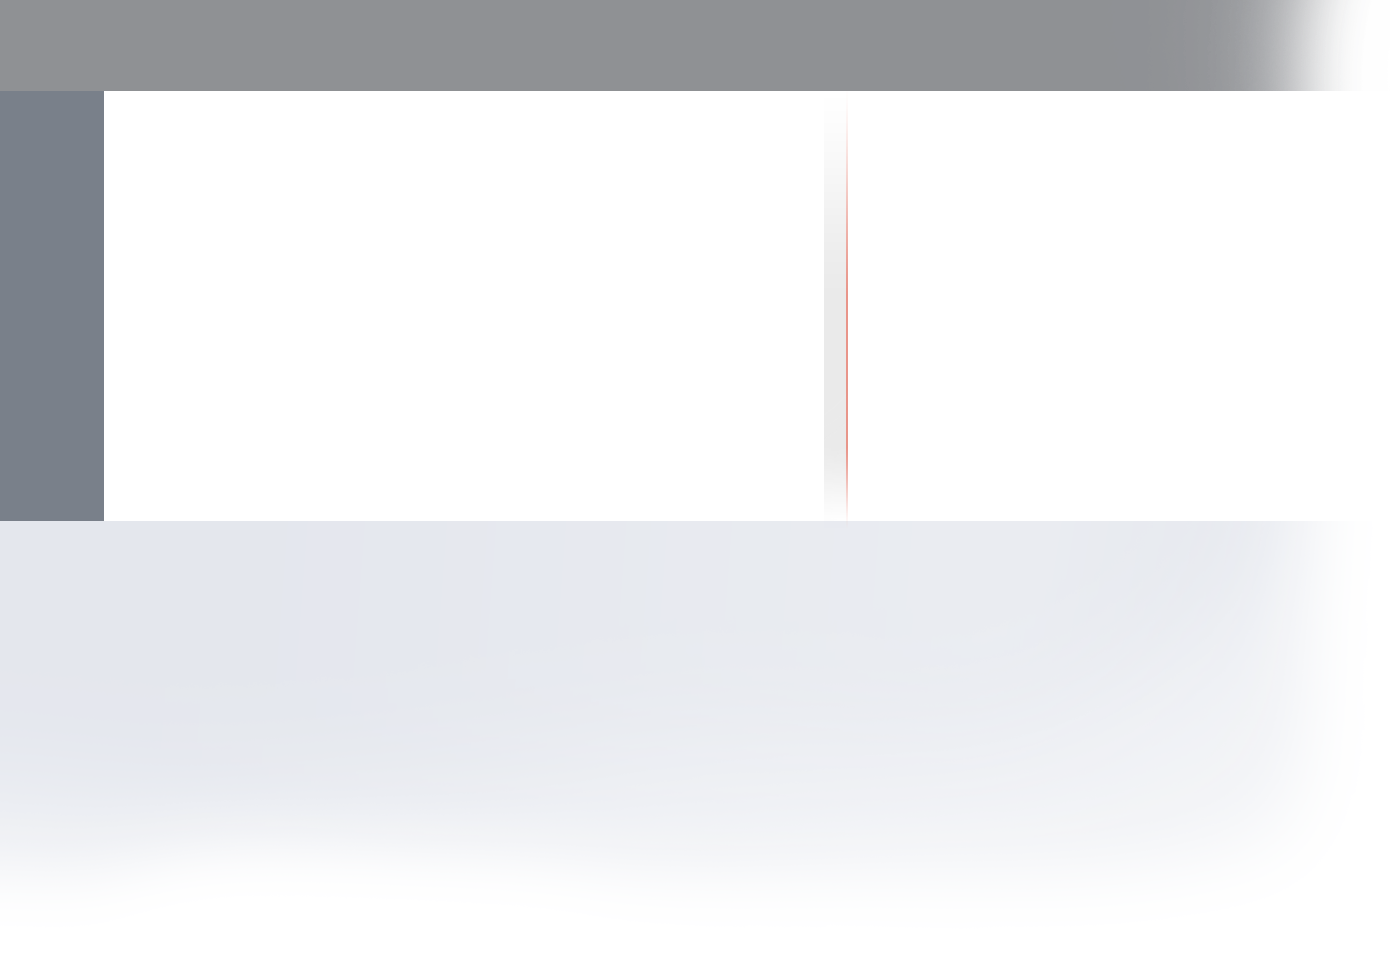
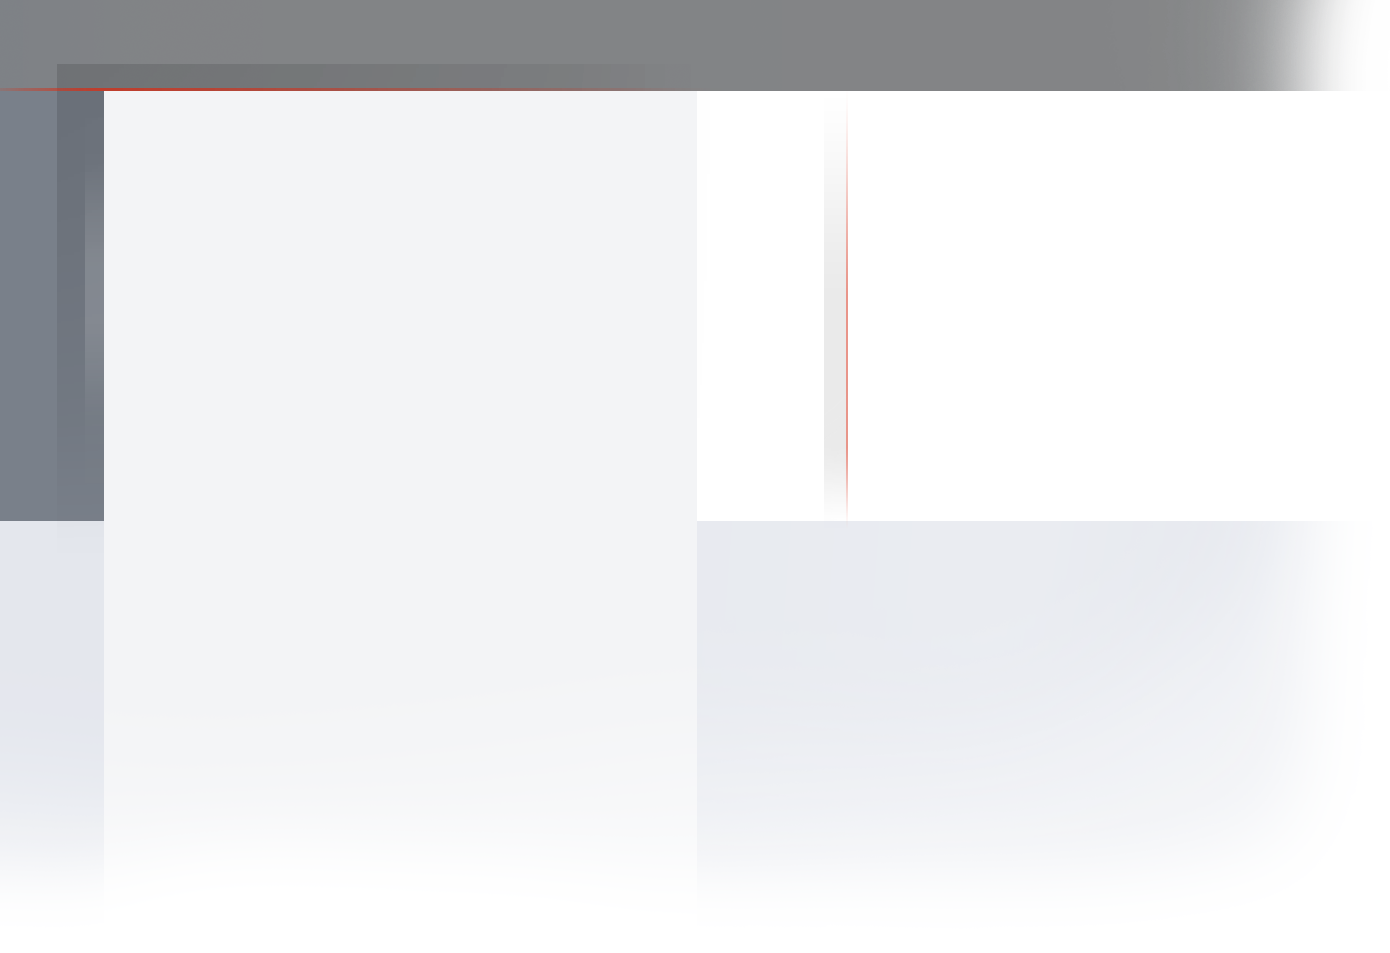
Changes

Changed region(s): [[0.0, 0.0609, 0.464, 0.1217]]

diff --git a/webroot/css/new_admin.css b/webroot/css/new_admin.css
@@ -1,3 +1,4 @@
+@import url("new_inc/theme_center/current_theme_settings.less");
 @font-face {
   font-family: 'Code-Pro-LC';
   src: url('/fonts/myfonts/code_pro/293724_0_0.eot');
@@ -919,105 +920,6 @@ form.fm_form button.ui-button {
   border-style: solid;
   border-width: 10px 0 10px 11px;
   border-color: transparent transparent transparent #181818;
-}
-.two_level_menu_items_cont {
-  position: relative;
-}
-.two_level_menu_items_cont .top_level_item {
-  min-height: 60px;
-  margin: 20px;
-  position: relative;
-  border: 1px solid transparent;
-  margin-top: 43px;
-}
-.two_level_menu_items_cont .top_level_item h2 {
-  margin: 10px;
-}
-.two_level_menu_items_cont .top_level_item .sub_menu_item {
-  background-color: #454545;
-  margin: 10px;
-  min-height: 40px;
-  cursor: move;
-  position: relative;
-}
-.two_level_menu_items_cont .single_item {
-  background-color: #454545;
-}
-.two_level_menu_items_cont .container_item {
-  background-color: #636363;
-}
-#theme_centers_list_container,
-.basic_settings {
-  position: relative;
-}
-#theme_centers_list_container .theme_setting_container,
-#theme_centers_list_container .basic_setting_cont,
-.basic_settings .theme_setting_container,
-.basic_settings .basic_setting_cont {
-  vertical-align: top;
-  padding-bottom: 30px;
-  padding-top: 30px;
-  background-color: #181818;
-  background-color: rgba(30,30,31,0.21);
-  display: inline-block;
-  border: 1px solid transparent;
-}
-#theme_centers_list_container .theme_setting_container label,
-#theme_centers_list_container .basic_setting_cont label,
-.basic_settings .theme_setting_container label,
-.basic_settings .basic_setting_cont label {
-  text-align: right;
-  margin-right: 12px;
-  vertical-align: top;
-  display: inline-block;
-  min-width: 170px;
-  padding-bottom: 50px;
-}
-#theme_centers_list_container .theme_setting_container .theme_setting_inputs_container,
-#theme_centers_list_container .basic_setting_cont .theme_setting_inputs_container,
-.basic_settings .theme_setting_container .theme_setting_inputs_container,
-.basic_settings .basic_setting_cont .theme_setting_inputs_container {
-  margin-top: -3px;
-  min-width: 80px;
-  vertical-align: top;
-  display: inline-block;
-}
-#theme_centers_list_container .theme_setting_container .theme_setting_description,
-#theme_centers_list_container .basic_setting_cont .theme_setting_description,
-.basic_settings .theme_setting_container .theme_setting_description,
-.basic_settings .basic_setting_cont .theme_setting_description {
-  display: inline-block;
-  vertical-align: top;
-  width: 500px;
-  font-style: italic;
-  margin-left: 80px;
-}
-#theme_centers_list_container .saving_theme_setting,
-.basic_settings .saving_theme_setting {
-  position: fixed;
-  right: 48px;
-  bottom: 25px;
-}
-#theme_centers_list_container h2.group_list_name,
-.basic_settings h2.group_list_name {
-  padding-left: 20px;
-  font-family: Code-Pro-LC;
-  font-weight: normal;
-  font-style: normal;
-  font-size: 24px;
-  line-height: 46px;
-  width: 829px;
-  background-color: #181818;
-  background-color: rgba(30,30,31,0.36);
-  display: inline-block;
-  border: 1px solid transparent;
-  margin-top: 20px;
-  height: 75px;
-}
-#theme_centers_list_container h2.group_list_name span,
-.basic_settings h2.group_list_name span {
-  display: inline-block;
-  margin-top: 17px;
 }
 #upload_background_button {
   margin-bottom: 40px;

diff --git a/models/theme.php b/models/theme.php
@@ -293,6 +293,15 @@ class Theme extends AppModel {
 			$background_settings['current_desaturation'] = $this->ThemeHiddenSetting->getVal('current_desaturation', 0);
 			$background_settings['current_inverted'] = $this->ThemeHiddenSetting->getVal('current_inverted', 0);
 
+			
+			///////////////////////////////////////////////////////////////////////////////////////
+			// get custom overlay background settings
+			$background_settings['custom_overlay_transparency_settings'] = array();
+			foreach ($background_settings['background_config']['overlay_image']['custom_overlay_transparency_fade'] as $custom_overlay_transparency_setting_name => $value) {
+				$background_settings['custom_overlay_transparency_settings'][$custom_overlay_transparency_setting_name] = $this->ThemeHiddenSetting->getVal('custom_overlay_setting_'.$custom_overlay_transparency_setting_name, 1);
+			}
+			
+			
 			////////////////////////////////////////////////////////////////////////////////////////
 			/// recreate the background image on load so don't have to rely on ajax finishing
 			$background_settings['small_background_left'] = $background_settings['palette_start_left'] - $background_settings['start_left'];
@@ -312,7 +321,9 @@ class Theme extends AppModel {
 				$background_settings['current_brightness'],
 				$background_settings['current_contrast'],
 				$background_settings['current_desaturation'],
-				$background_settings['current_inverted']
+				$background_settings['current_inverted'],
+				$background_settings['custom_overlay_transparency_settings'],
+				$theme_config
 			);
 		}
 		
@@ -464,7 +475,9 @@ class Theme extends AppModel {
 			$current_brightness,
 			$current_contrast,
 			$current_desaturation,
-			$current_inverted
+			$current_inverted,
+			$custom_overlay_transparency_settings,
+			$theme_config
 	) {
 		$this->SiteSetting = ClassRegistry::init('SiteSetting');
 		$this->ThemeHiddenSetting = ClassRegistry::init('ThemeHiddenSetting');
@@ -566,9 +579,28 @@ class Theme extends AppModel {
 		imagecopyresampled($imgBanner, $imgAvatar, $dst_x, $dst_y, $src_x, $src_x, $dst_w, $dst_h, $src_w, $src_h);
 		
 		
-		// DREW TODO - maybe finish this code
-		for ($x = 1; $x < $o_width; $x++){
-			for ($y = 1; $y < $o_height; $y++) {
+		////////////////////////////////////////////////////////////////////////////////////////////////////////////////////////////////////////////
+		// prepare custom overlay transparency settings
+		$custom_transparency_settings = $theme_config['admin_config']['theme_background_config']['overlay_image']['custom_overlay_transparency_fade'];
+//		$this->get_overlay_transparency_multiplyer(2, 2, $custom_overlay_transparency_settings, $custom_transparency_settings);
+		if (!empty($custom_transparency_settings)) {
+			foreach ($custom_transparency_settings as &$custom_transparency_setting) {
+				if ($custom_transparency_setting['tl']['x'] === '*') { $custom_transparency_setting['tl']['x'] = $o_width - 1; }
+				if ($custom_transparency_setting['tl']['y'] === '*') { $custom_transparency_setting['tl']['y'] = $o_height - 1; }
+				if ($custom_transparency_setting['br']['x'] === '*') { $custom_transparency_setting['br']['x'] = $o_width - 1; }
+				if ($custom_transparency_setting['br']['y'] === '*') { $custom_transparency_setting['br']['y'] = $o_height - 1; }
+			}
+			// save current custom transparency settings
+			foreach ($custom_overlay_transparency_settings as $custom_overlay_transparency_setting_name => $custom_overlay_transparency_setting) {
+				$this->ThemeHiddenSetting->setVal('custom_overlay_setting_'.$custom_overlay_transparency_setting_name, $custom_overlay_transparency_setting);
+			}
+		}
+		unset($custom_transparency_setting);
+		$this->log($custom_overlay_transparency_settings, 'custom_overlay_transparency_settings');
+		
+		
+		for ($x = 0; $x < $o_width; $x++){
+			for ($y = 0; $y < $o_height; $y++) {
 				$ovrARGB = imagecolorat($imgOverlay, $x, $y);
 				$ovrA = ($ovrARGB >> 24) << 1;
 				$ovrR = $ovrARGB >> 16 & 0xFF;
@@ -582,12 +614,17 @@ class Theme extends AppModel {
 					$dstB = $ovrB;
 					$change = true;
 				} elseif($ovrA < 254) {
-					$ovrA = 3 * $ovrA;
-					if ($ovrA > 254) {
-						$ovrA = 254;
+					/////////////////////////////////////////////////////////////////////////////////////////////////////
+					// figure out which custom transparency box the pixel is in
+					foreach ($custom_transparency_settings as $custom_transparency_name => $custom_transparency_setting) {
+						if ($y >= $custom_transparency_setting['tl']['y'] && $y <= $custom_transparency_setting['br']['y'] && $x >= $custom_transparency_setting['tl']['x'] && $x <= $custom_transparency_setting['br']['x']) {
+							$ovrA = $custom_overlay_transparency_settings[$custom_transparency_name] * $ovrA;
+							if ($ovrA > 254) {
+								$ovrA = 254;
+							}
+							break(1);
+						}
 					}
-						
-					
 					
 					
 					$dstARGB = imagecolorat($imgBanner, $x, $y);
@@ -637,9 +674,7 @@ class Theme extends AppModel {
 		}
 	}
 	
-	public function gd_modify_background_image() {
-		
-	}
+	
 	
 	private function _resize_image($file, $w, $h, $crop=FALSE) {
 		list($width, $height) = getimagesize($file);

diff --git a/themes/default/theme_config.php b/themes/default/theme_config.php
@@ -122,7 +122,7 @@ $theme_config = array(
 					'left' => 0,
 					'top' => 0,
 					'right' => 0,
-					'bottom' => 0
+					'bottom' => 0,
 				)
 			),
 			'default_space' => array( // the bounding size of the logo if no size has been specified (should be smaller than available space
@@ -134,12 +134,36 @@ $theme_config = array(
 			'theme_has_dynamic_background' => true,
 			'overlay_image' => array(
 				'absolute_path' => 	'',
-				'web_path' => ''
+				'web_path' => '',
+				'custom_overlay_transparency_fade' => array(
+					'header' => array(
+						'tl' => array(
+							'x' => 0,
+							'y' => 0,
+						),
+						'br' => array(
+							'x' => '*', // NOTE - * means full length or width - also, NOTICE that max width is width minus 1 because the calc starts at 0
+							'y' => 90,
+						),
+						'label' => 'Header',
+					),
+					'body' => array(
+						'tl' => array(
+							'x' => 0,
+							'y' => 91,
+						),
+						'br' => array(
+							'x' => '*', // NOTE - * means full length or width - also, NOTICE that max width is width minus 1 because the calc starts at 0
+							'y' => '*',
+						),
+						'label' => 'Body',
+					),
+				),
 			),
 			'default_bg_image' => array(
 				'absolute_path' => 	'', // max 1600 width and max 1200 height
 				'web_path' => ''
-			)
+			),
 		),
 		'theme_gallery_listing_config' => array(
 			'default_images_per_page' => 8

diff --git a/controllers/theme_centers_controller.php b/controllers/theme_centers_controller.php
@@ -81,7 +81,7 @@ class ThemeCentersController extends AppController {
 	
 	public function admin_ajax_get_logo_webpath_and_save_dimension($height, $width, $top, $left) {
 		App::import('Helper', 'ThemeLogo'); 
-        $ThemeLogo = new ThemeLogoHelper();
+		$ThemeLogo = new ThemeLogoHelper();
 		
 		$returnArr = array();
 		
@@ -105,12 +105,13 @@ class ThemeCentersController extends AppController {
 	}
 	
 	public function admin_ajax_create_merged_bg_and_save_bg_config() {
-		// DREW TODO - put in major error checks into this function
 		// DREW TODO - make sure the default background color for the theme is also passed and used in this function
 		
 		$returnArr = array();
 		$returnArr['code'] = 1;
 		$using_custom_background_image = ($this->params['form']['using_custom_background_image'] == 'true') ? true : false ;
+		
+		$custom_overlay_transparency_settings = $this->params['form']['custom_overlay_transparency_settings'];
 		
 		
 		/////////////////////////////////////////////////////////////////////////////////////////////////////
@@ -188,7 +189,9 @@ class ThemeCentersController extends AppController {
 				$current_brightness,
 				$current_contrast,
 				$current_desaturation,
-				$current_inverted
+				$current_inverted,
+				$custom_overlay_transparency_settings,
+				$this->ThemeRenderer->_process_theme_config_with_user_settings(true)
 		);
 		
 		
